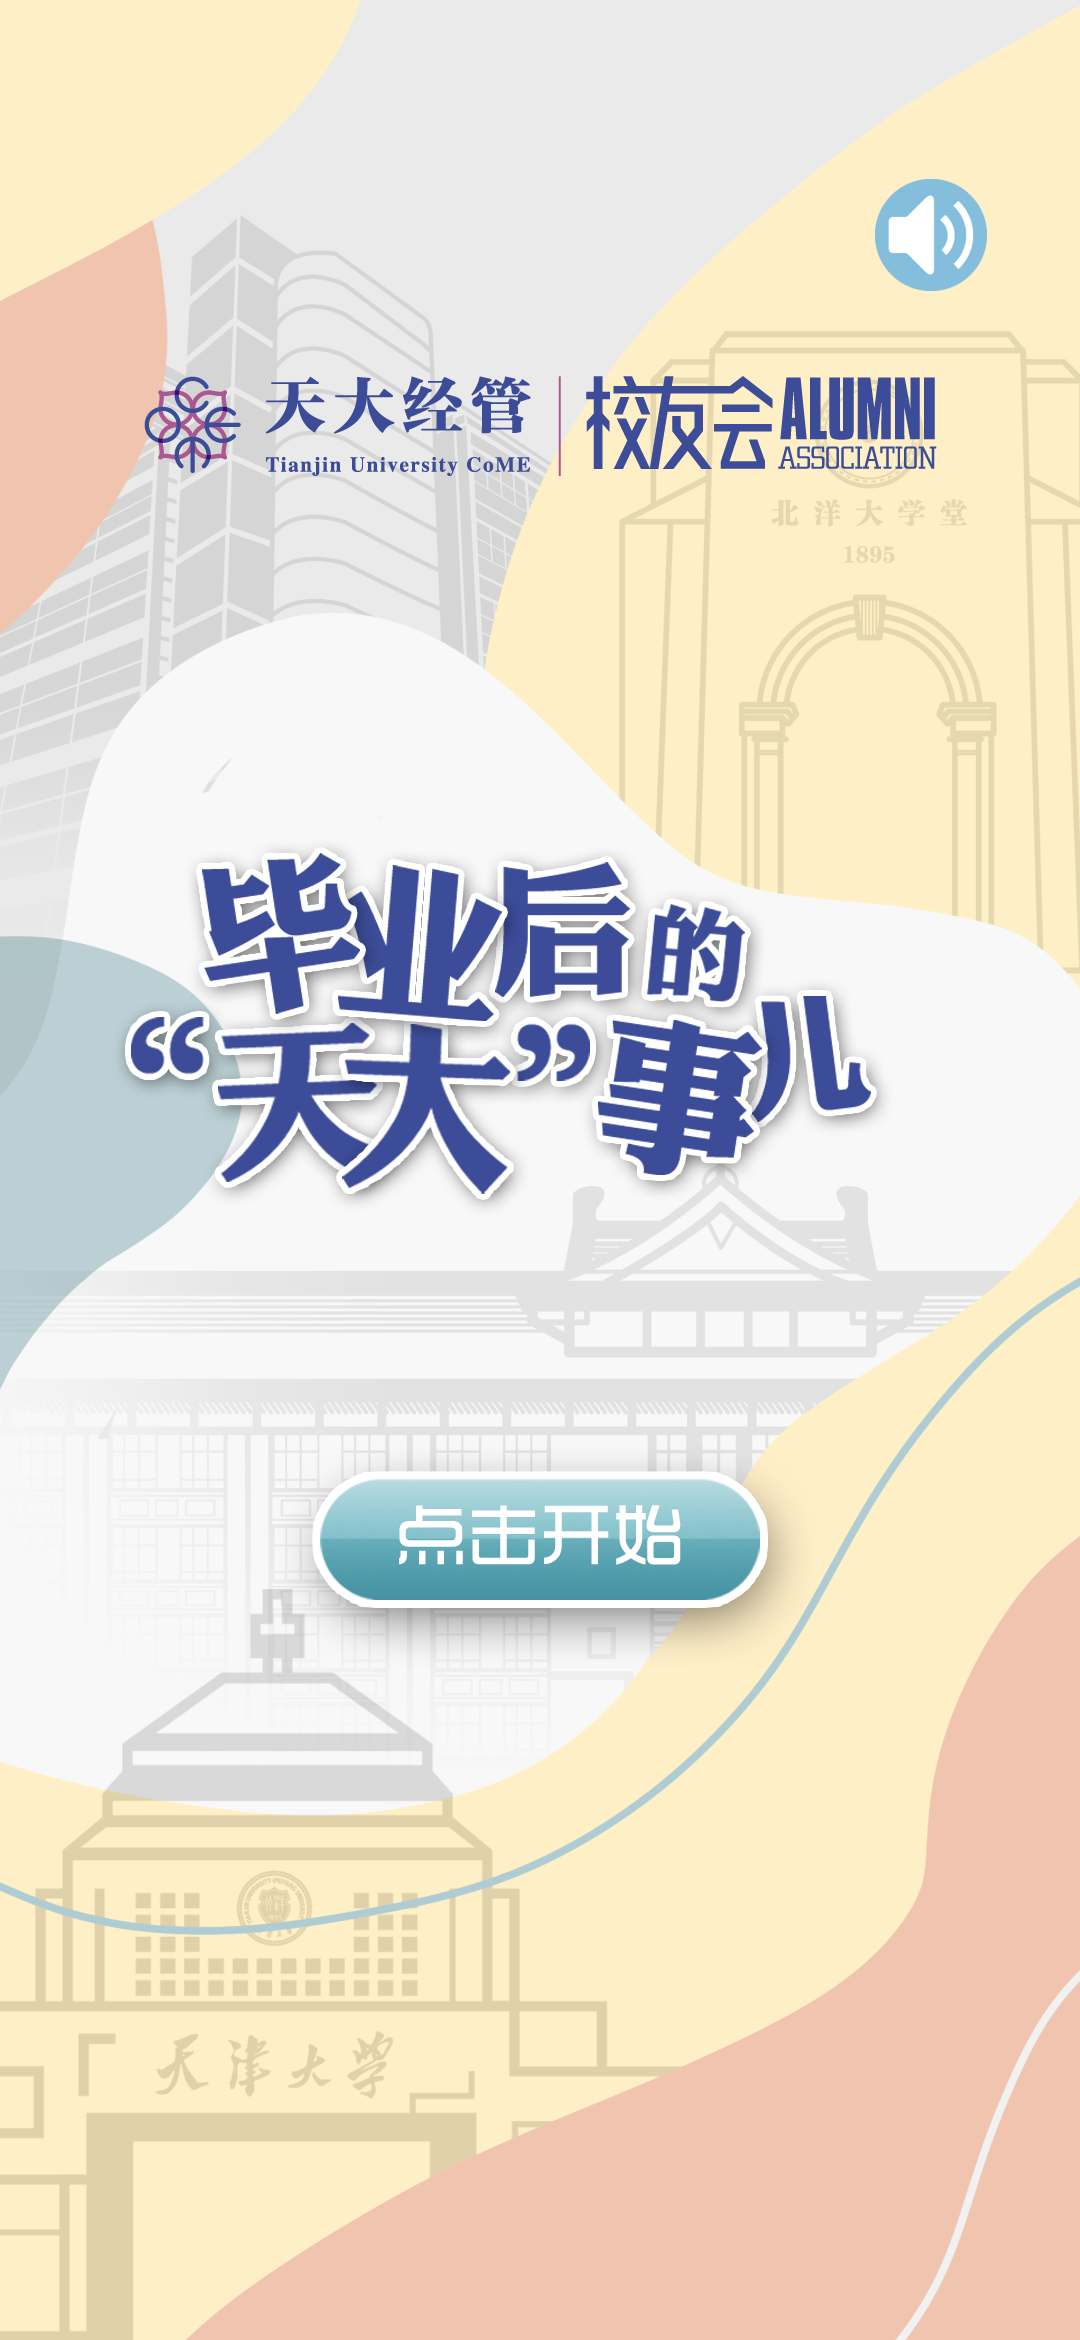
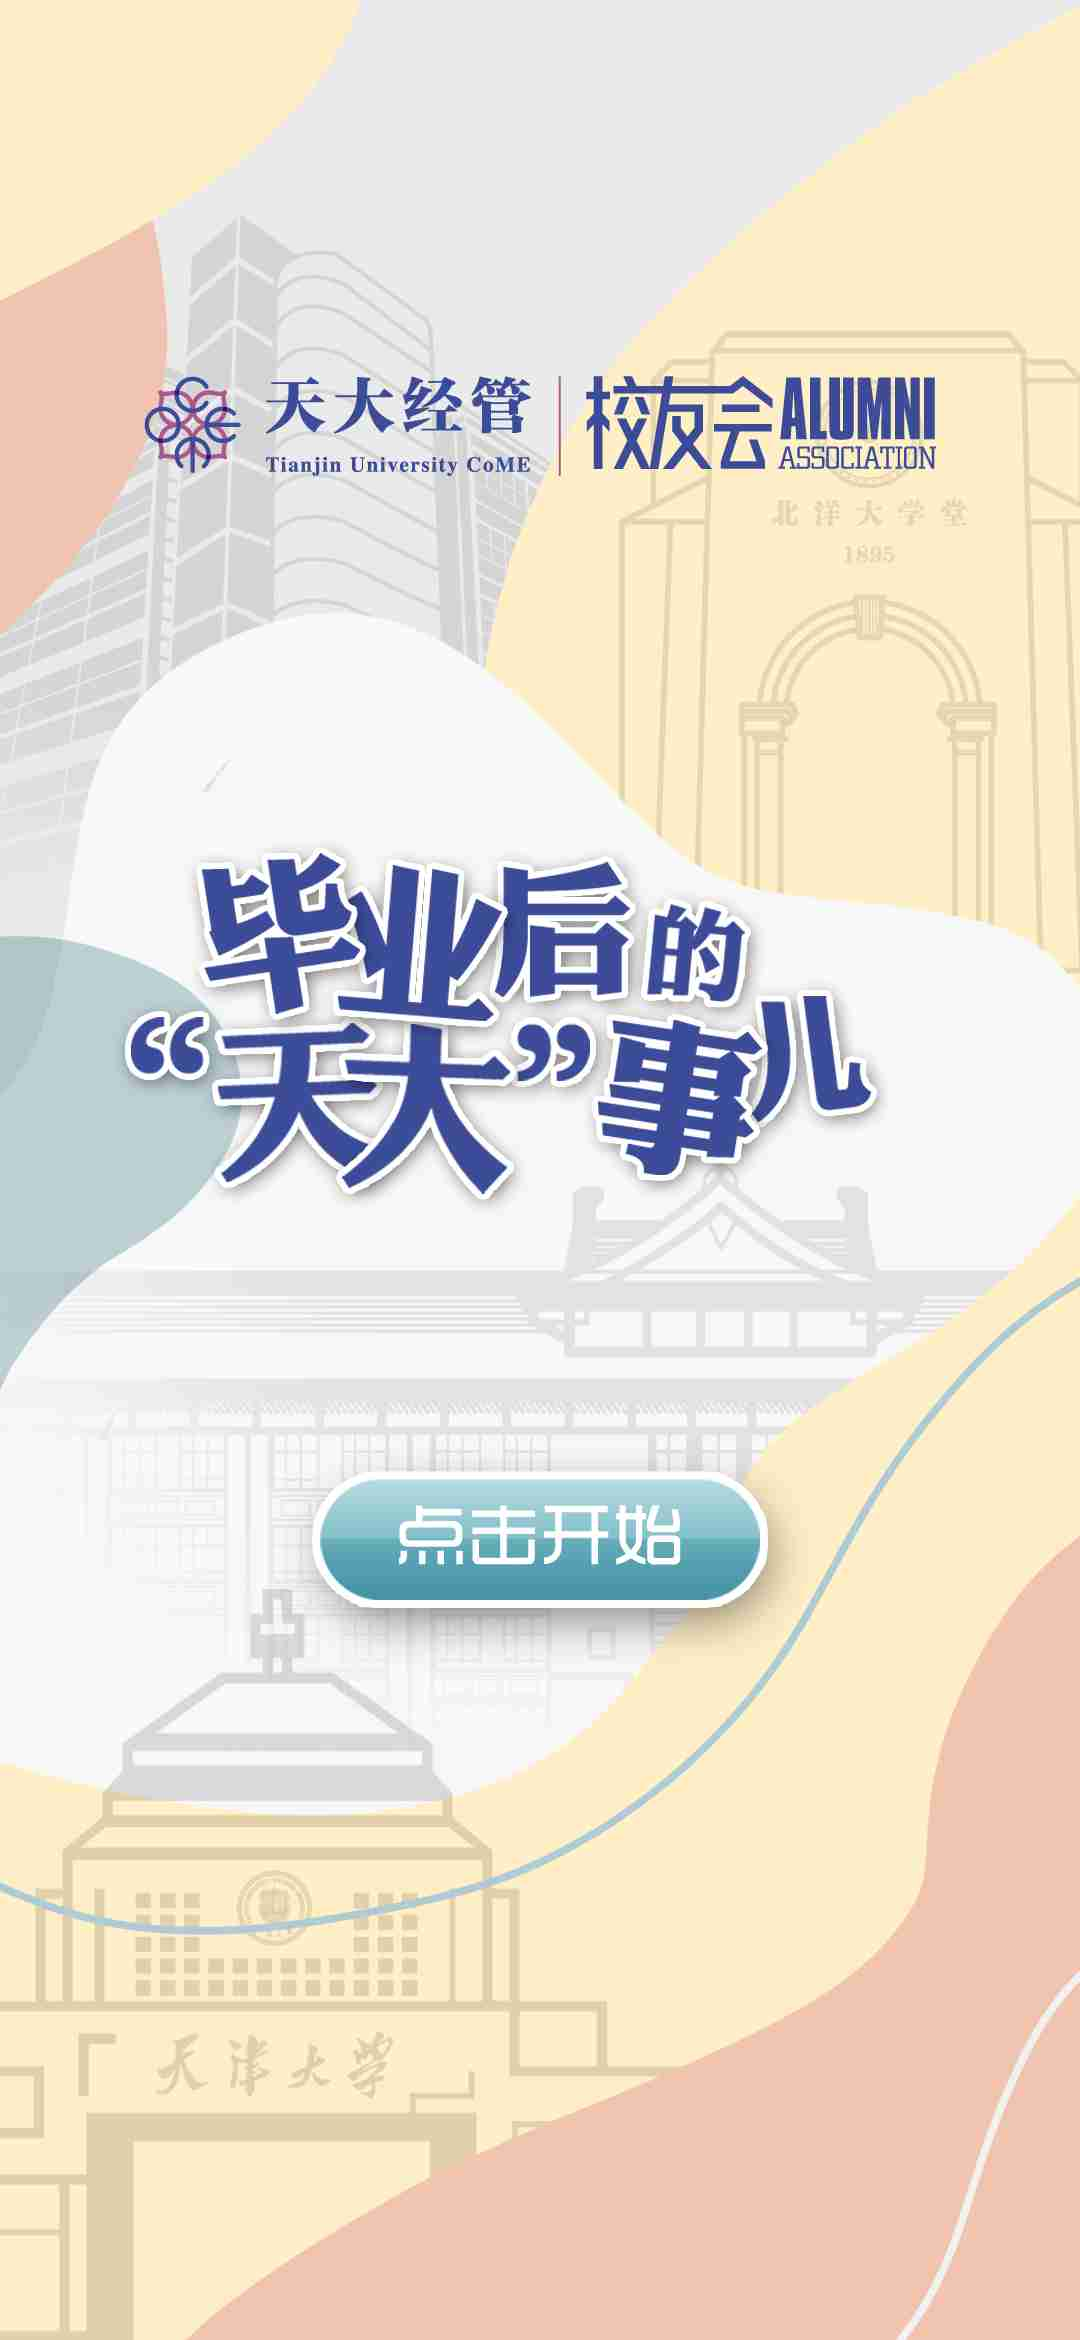
finshed6

diff --git a/src/music.vue b/src/music.vue
@@ -46,15 +46,14 @@ export default {
  
 <style scoped>
 .isOn {
-  width: 20%;
-  height: 10%;
+  width: 11%;
+  height: 5%;
   position: fixed;
   z-index: 2000;
-  top: 5%;
-  right: 5%;
-  -webkit-animation: rotating 1.2s linear infinite;
-  animation: rotating 1.2s linear infinite;
-  background-size: 100%;
+  top: 7.59%;
+  right: 8.05%;
+  background: url("./assets/music.png") no-repeat;
+  background-size: 100% 100%;
 }
 @keyframes rotating {
   from {
@@ -75,7 +74,7 @@ export default {
 .isOff {
   width: 11%;
   height: 5%;
-  position: absolute;
+  position: fixed;
   z-index: 2000;
   top: 7.59%;
   right: 8.05%;

diff --git a/src/App.vue b/src/App.vue
@@ -1,7 +1,7 @@
 
 <template>
   <div id="app">
- 
+ <my-music />
     <div class="loading-class" v-show="page == -1">
       <div class="content-class">
         <img src="./assets/logo.png" style="width: 77%; height: 11%" />
@@ -10,7 +10,7 @@
     </div>
     <div class="cover-class" v-show="page == 0">
       <div class="start-class" @click="start"></div>
-      <my-music />
+      
     </div>
     <div class="q-class" v-show="page == 1">
       <div class="q1-1-class">
